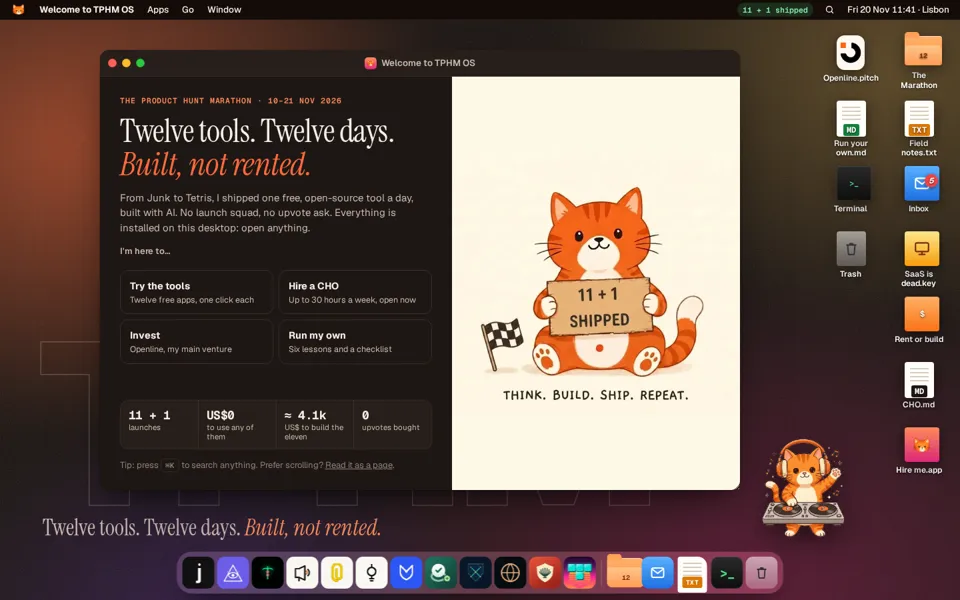
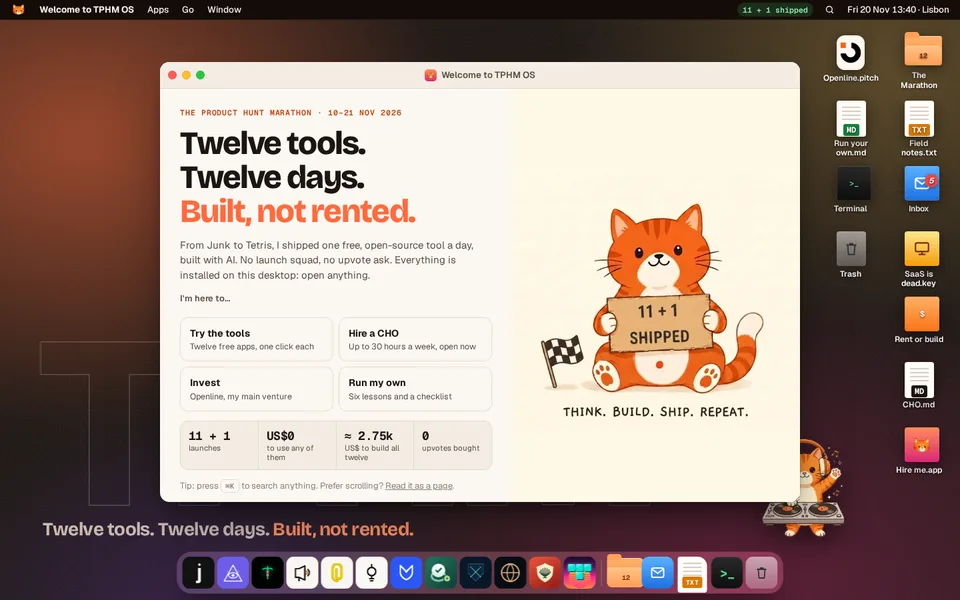
New per-tool budgets, Tetris priced, twelve-tool total US$2,750 everywhere

diff --git a/os/os.js b/os/os.js
@@ -225,7 +225,7 @@ def('welcome', { title: 'Welcome to TPHM OS', w: 960, h: 660, build(b) {
       <button class="pathb" data-open="pitch"><b>Invest</b><span>Openline, my main venture</span></button>
       <button class="pathb" data-open="builders"><b>Run my own</b><span>Six lessons and a checklist</span></button>
     </div>
-    <div class="stats"><div><b>11 + 1</b><span>launches</span></div><div><b>US$0</b><span>to use any of them</span></div><div><b>≈ 4.1k</b><span>US$ to build the eleven</span></div><div><b>0</b><span>upvotes bought</span></div></div>
+    <div class="stats"><div><b>11 + 1</b><span>launches</span></div><div><b>US$0</b><span>to use any of them</span></div><div><b>≈ 2.75k</b><span>US$ to build all twelve</span></div><div><b>0</b><span>upvotes bought</span></div></div>
     <p class="small">Tip: press <kbd style="margin:0">⌘K</kbd> to search anything. Prefer scrolling? <a href="/">Read it as a page</a>.</p>
   </div><div class="wel-r"><img src="/assets/kitty/fin.webp" alt="The Marathon kitty holding a sign: 11 + 1 shipped" width="1100" height="614"></div></div>`;
 } });
@@ -243,7 +243,7 @@ def('finder', { title: 'The Marathon', w: 860, h: 540, build(b) {
     <div class="fd-bar"><b id="fdT">All twelve</b><div class="seg" role="group" aria-label="View"><button aria-pressed="true" data-v="grid">Icons</button><button aria-pressed="false" data-v="list">List</button></div></div>
     <div class="fd-grid">${LOG.map(p => `<button class="fi" data-open="p:${p.key}" data-tags="${TAGS[p.key]}"><img src="/assets/icons/${p.key}.webp" alt=""><b>${p.name}</b><span>${p.encore ? 'Encore' : 'Day ' + p.n} · ${p.day.slice(4)}</span></button>`).join('')}</div>
     <div class="fd-list" hidden><table><thead><tr><th>Name</th><th>Kind</th><th>Shipped</th><th class="num">What it took</th></tr></thead><tbody>${LOG.map(p => `<tr tabindex="0" data-open="p:${p.key}" data-tags="${TAGS[p.key]}"><td><img src="/assets/icons/${p.key}.webp" alt="">${p.name}</td><td>${p.kind}</td><td>${p.day}</td><td class="num">${p.budget ? '≈ ' + money(p.budget) : 'bonus'}</td></tr>`).join('')}</tbody></table></div>
-    <div class="fd-status"><span id="fdN">12 items</span><span>All MIT · free for good · ≈ ${money(TOTAL)} for the eleven</span></div>
+    <div class="fd-status"><span id="fdN">12 items</span><span>All MIT · free for good · ≈ ${money(TOTAL)} for all twelve</span></div>
   </div></div>`;
   $$('.fd-side button', b).forEach(btn => btn.addEventListener('click', () => {
     $$('.fd-side button', b).forEach(x => x.setAttribute('aria-pressed', x === btn));
@@ -268,7 +268,7 @@ function productApp(key) {
         <div class="pa-head"><img src="/assets/icons/${key}.webp" alt=""><div><p class="eyb">${p.encore ? 'Bonus · 12 of 11' : 'Day ' + p.n + ' of 11'} · ${p.day}</p><b>${p.name}</b></div></div>
         <p class="pa-line">${p.line}</p>
         <p class="p2">${p.note}</p>
-        <dl class="facts"><div><dt>Kind</dt><dd>${p.kind}</dd></div><div><dt>Stack</dt><dd>${p.stack}</dd></div><div><dt>Licence</dt><dd>MIT, free for good</dd></div><div><dt>What it took</dt><dd>${p.budget ? '≈ ' + money(p.budget) + ' <span class="small">AI tokens, hours and other compute, marketing and hosting across every iteration. Not a price.</span>' : 'A bonus round, not counted in the eleven'}</dd></div></dl>
+        <dl class="facts"><div><dt>Kind</dt><dd>${p.kind}</dd></div><div><dt>Stack</dt><dd>${p.stack}</dd></div><div><dt>Licence</dt><dd>MIT, free for good</dd></div><div><dt>What it took</dt><dd>${p.budget ? '≈ ' + money(p.budget) + ' <span class="small">AI tokens, hours and other compute, marketing and hosting across every iteration. Not a price.</span>' : 'Not tracked'}</dd></div></dl>
         <div class="row-btns">${live ? `<button class="btn btn-or" data-live="${live}">Run it right here</button>` : ''}${p.site ? `<a class="btn ${live ? 'btn-ln' : 'btn-or'}" href="${p.site}" target="_blank" rel="noopener">${host(p.site)} ${EXT}</a>` : ''}${p.ph ? `<a class="btn ${p.site || live ? 'btn-ln' : 'btn-or'}" href="${phU(p)}" target="_blank" rel="noopener">Product Hunt ${EXT}</a>` : ''}<a class="btn btn-ln" href="${ghU(p)}" target="_blank" rel="noopener">GitHub ${EXT}</a></div>
         ${p.encore ? '<p class="small">Tetris is a trademark of The Tetris Company. Grand Theft Auto and GTA VI are trademarks of Take-Two Interactive and Rockstar Games. A fan project, not affiliated with any of them, and it comes down on request, no questions asked.</p>' : ''}
         <div class="pa-nav"><button class="btn btn-ln" data-swap="${prev.key}">← ${prev.name}</button><button class="btn btn-ln" data-swap="${next.key}">${next.name} →</button></div>
@@ -343,7 +343,7 @@ def('saas', { title: 'SaaS is dead.key', w: 960, h: 600, build(b) {
     { t: 'SaaS is dead', c: 'orange', h: `<p class="eyb">A provocation, not an obituary</p><h2 class="big">SaaS is dead. Rent by default? <em style="color:#FFE7B0">Not anymore.</em></h2><p>My bet is that more companies will build and own the workflows they used to rent.</p>` },
     { t: 'For companies', c: 'light', h: `<p class="eyb">For companies</p><h2 class="big">Own the workflow. Question the recurring bill.</h2><p>Swapping SaaS seats for an uncontrolled AI bill isn't sovereignty. Use AI to create reusable tools, turn repeated prompts into owned apps, use ordinary code for predictable steps, and test small self-hosted models for narrow jobs.</p><p>Compare cost per successful result, including hardware, power, hosting, licences, security, maintenance and human time. Self-hosting is not automatically cheaper or more private.</p>` },
     { t: 'For founders and investors', h: `<p class="eyb">For SaaS founders and investors</p><h2 class="big">Reproducible features are no longer a moat.</h2><p>My deliberately aggressive belief: AI can already reproduce the software functionality of a SaaS company's entire product line, for less than one month of its revenue. Soon that budget could fall to one customer's annual bill, then their monthly bill.</p><p>If I'm right, SaaS economics built only on reproducible features could be reduced to dust. This is my prediction, not a benchmark. Recreating software is not rebuilding proprietary data, infrastructure, compliance or customer trust.</p>` },
-    { t: 'The evidence', h: `<p class="eyb">The evidence on this desktop</p><h2 class="big" style="font-size:clamp(26px,2.8vw,40px)">Twelve simple tools, built, not rented, at a residual cost.</h2><p>A scratchpad, a domain monitor, a terminal assistant, an encrypted inbox, a contract reviewer, a research panel, a VPN, a credit monitor, a firewall template, a clock, a malware scanner and a game. Each one replaces or sidesteps something people usually pay for every month.</p><ol class="bars">${B.map(p => `<li><img src="/assets/icons/${p.key}.webp" alt=""><span>${p.name}</span><i style="--v:${p.budget / B[0].budget * 100}"></i><em>${p.budget}</em></li>`).join('')}<li style="border-top:1px solid rgba(255,255,255,.15);padding-top:6px"><span></span><span>The eleven, in US$</span><span></span><em>≈ ${TOTAL.toLocaleString('en-US')}</em></li></ol><p style="font-size:13px">Each prototype took roughly US$100 to US$800 of AI and time: AI tokens, hours and other compute, marketing or hosting across every iteration. An approximation, not a price or an invoice. Most run for a few dollars a month of hosting, or for free on your own machine. Tetris not included.</p>` },
+    { t: 'The evidence', h: `<p class="eyb">The evidence on this desktop</p><h2 class="big" style="font-size:clamp(26px,2.8vw,40px)">Twelve simple tools, built, not rented, at a residual cost.</h2><p>A scratchpad, a domain monitor, a terminal assistant, an encrypted inbox, a contract reviewer, a research panel, a VPN, a credit monitor, a firewall template, a clock, a malware scanner and a game. Each one replaces or sidesteps something people usually pay for every month.</p><ol class="bars">${B.map(p => `<li><img src="/assets/icons/${p.key}.webp" alt=""><span>${p.name}</span><i style="--v:${p.budget / B[0].budget * 100}"></i><em>${p.budget}</em></li>`).join('')}<li style="border-top:1px solid rgba(255,255,255,.15);padding-top:6px"><span></span><span>All twelve, in US$</span><span></span><em>≈ ${TOTAL.toLocaleString('en-US')}</em></li></ol><p style="font-size:13px">Each prototype took roughly US$50 to US$400 of AI and time: AI tokens, hours and other compute, marketing or hosting across every iteration. An approximation, not a price or an invoice. Most run for a few dollars a month of hosting, or for free on your own machine.</p>` },
     { t: 'Four principles', h: `<p class="eyb">How to decide</p><h2 class="big">Build where it matters. Rent where it's worth it.</h2><ul class="principles"><li><b>Build where ownership is an advantage.</b>Internal tools, repeated workflows, anything your team touches every day.</li><li><b>Keep paying where it's worth it.</b>When a supplier delivers value you can't sensibly reproduce: data, networks, regulated services.</li><li><b>Budget the whole life, not the prototype.</b>Iteration, AI usage, maintenance, security and expertise all count.</li><li><b>Software on demand, responsibility included.</b>Every tool needs an owner, tests and a way back.</li></ul>` },
     { t: 'Your turn', c: 'orange', h: `<p class="eyb">Your turn</p><h2 class="big">Do the maths on your own stack.</h2><p>A rough sketch of three years of renting against building and running your own.</p><div class="row-btns"><button class="btn btn-ln" style="background:#fff;border:0;color:#1a0b05" data-open="calc">Open Rent or build</button><button class="btn btn-ln" style="background:transparent;color:#fff;border-color:rgba(255,255,255,.5)" data-open="hire">Hire a CHO to do it</button></div>` }
   ]);
@@ -446,8 +446,8 @@ def('terminal', { title: 'paul@tphm: ~', w: 720, h: 460, cls: 'dark-win', build(
   const CMDS = {
     help: () => say(`<span class="y">Commands</span>\n  <span class="a">ls</span>             list the twelve apps\n  <span class="a">open</span> &lt;name&gt;    open an app (try: open mars)\n  <span class="a">neofetch</span>       system info\n  <span class="a">budget</span>         what it took, tool by tool\n  <span class="a">whoami</span>         who built this\n  <span class="a">cat</span> cho.md     what is a CHO\n  <span class="a">hire</span> · <span class="a">invest</span> · <span class="a">notes</span> · <span class="a">inbox</span> · <span class="a">saas</span>\n  <span class="a">sudo upvote</span>    try it\n  <span class="a">clear</span>          clear the screen`),
     ls: () => say(LOG.map(p => `<span class="d">${String(p.n).padStart(2, '0')}</span>  <span class="a">${p.key.padEnd(18)}</span> ${p.kind}`).join('\n')),
-    neofetch: () => say(`<span class="a">   /\\_/\\ </span>   <span class="y">paul</span>@<span class="y">tphm</span>\n<span class="a">  ( o.o )</span>   OS: TPHM OS 12.0 (Lisbon)\n<span class="a">   > ^ <</span>    Apps: 11 + 1, all MIT\n            Built: 10–21 Nov 2026\n            Cost: ≈ ${money(TOTAL)} for the eleven\n            Upvotes bought: 0\n            Shell: feedback over votes`),
-    budget: () => say(B.map(p => `${p.name.padEnd(18)} <span class="a">${'█'.repeat(Math.round(p.budget / 40))}</span> ${p.budget}`).join('\n') + `\n${'The eleven'.padEnd(18)} ≈ ${TOTAL.toLocaleString('en-US')} US$\n<span class="d">AI tokens, hours, compute, marketing and hosting. Not a price.</span>`),
+    neofetch: () => say(`<span class="a">   /\\_/\\ </span>   <span class="y">paul</span>@<span class="y">tphm</span>\n<span class="a">  ( o.o )</span>   OS: TPHM OS 12.0 (Lisbon)\n<span class="a">   > ^ <</span>    Apps: 11 + 1, all MIT\n            Built: 10–21 Nov 2026\n            Cost: ≈ ${money(TOTAL)} for all twelve\n            Upvotes bought: 0\n            Shell: feedback over votes`),
+    budget: () => say(B.map(p => `${p.name.padEnd(18)} <span class="a">${'█'.repeat(Math.round(p.budget / 25))}</span> ${p.budget}`).join('\n') + `\n${'All twelve'.padEnd(18)} ≈ ${TOTAL.toLocaleString('en-US')} US$\n<span class="d">AI tokens, hours, compute, marketing and hosting. Not a price.</span>`),
     whoami: () => say('Paul Fleury. Founder. CEO. Chief Hacking Officer. Lisbon.\nMain venture: <a href="https://openline.com" target="_blank" rel="noopener">Openline</a>. Contact: <a href="' + CONTACT + '" target="_blank" rel="noopener">paulfleury.com/contact</a>'),
     hire: () => { say('Opening Hire me.app…'); openApp('hire'); },
     invest: () => { say('Opening Openline.pitch…'); openApp('pitch'); },

diff --git a/index.html b/index.html
@@ -16,8 +16,8 @@
 <link rel="preconnect" href="https://fonts.gstatic.com" crossorigin>
 <link rel="stylesheet" href="https://fonts.googleapis.com/css2?family=Bricolage+Grotesque:opsz,wght@12..96,600..800&family=Figtree:wght@400..800&display=swap">
 <script>(function(){var t;try{t=localStorage.getItem('tphm-theme')}catch(e){}if(!t)t=matchMedia('(prefers-color-scheme:dark)').matches?'dark':'light';document.documentElement.dataset.theme=t;document.documentElement.classList.add('js')})()</script>
-<link rel="stylesheet" href="/ph.css?v=202611201420">
-<link rel="stylesheet" href="/tphm.css?v=202611201420">
+<link rel="stylesheet" href="/ph.css?v=202611201500">
+<link rel="stylesheet" href="/tphm.css?v=202611201500">
 <link rel="stylesheet" href="/assets/a11y/a11y-v2.css">
 </head>
 <body>
@@ -112,7 +112,7 @@
       <div><dt>11 + 1</dt><dd>launches <button class="tip" type="button" data-tip="The eleven announced launches, plus a surprise Tetris encore on day twelve."><svg class="ico"><use href="#i-info"/></svg></button></dd></div>
       <div><dt>12</dt><dd>free tools, MIT</dd></div>
       <div><dt>US$0</dt><dd>to use any of them</dd></div>
-      <div><dt>≈ US$4,100</dt><dd>to build the eleven <button class="tip" type="button" data-tip="AI tokens, hours and other compute, marketing and hosting across every iteration. An approximation, not a price or an invoice. Tetris not included."><svg class="ico"><use href="#i-info"/></svg></button></dd></div>
+      <div><dt>≈ US$2,750</dt><dd>to build all twelve <button class="tip" type="button" data-tip="AI tokens, hours and other compute, marketing and hosting across every iteration. An approximation, not a price or an invoice."><svg class="ico"><use href="#i-info"/></svg></button></dd></div>
       <div><dt>0</dt><dd>upvotes bought or asked</dd></div>
     </dl>
   </div>
@@ -161,7 +161,7 @@
       <a class="ch" href="#/builders"><span class="ch-n">05 · Builders</span><h3>Run your own little marathon.</h3><p>Six lessons and a launch-day checklist.</p>
         <span class="ch-viz ch-dots" aria-hidden="true" id="chDots"><i></i><i></i><i></i><i></i><i></i><i></i><em>0 of 6 ticked</em></span><span class="ch-go">Start the checklist <svg class="ico go flip"><use href="#i-go"/></svg></span></a>
       <a href="/os/" class="ch ch-os" data-os><span class="ch-n"><svg class="ico"><use href="#i-os"/></svg> Bonus · TPHM OS</span><h3>Prefer to play?</h3><p>Open the Marathon as a desktop: apps, inbox, terminal and a DJ kitty.</p>
-        <span class="ch-viz ch-shot" aria-hidden="true"><img src="/assets/brand/os-preview.webp" alt="" width="960" height="600" loading="lazy"></span><span class="ch-go">Boot it <svg class="ico go flip"><use href="#i-go"/></svg></span></a>
+        <span class="ch-viz ch-shot" aria-hidden="true"><img src="/assets/brand/os-preview.webp?v=202611201500" alt="" width="960" height="600" loading="lazy"></span><span class="ch-go">Boot it <svg class="ico go flip"><use href="#i-go"/></svg></span></a>
     </div>
   </div>
 </section>
@@ -246,7 +246,7 @@
     </div>
 
     <div class="took">
-      <div class="took-head"><div><p class="kicker">The evidence</p><h3>What it took, tool by tool</h3></div><p class="muted">Each prototype took roughly US$100 to US$800 of AI and time. Most run for a few dollars a month, or free on your own machine.</p></div>
+      <div class="took-head"><div><p class="kicker">The evidence</p><h3>What it took, tool by tool</h3></div><p class="muted">Each prototype took roughly US$50 to US$400 of AI and time. Most run for a few dollars a month, or free on your own machine.</p></div>
       <ol class="took-bars" id="took"></ol>
     </div>
   </div>
@@ -406,8 +406,8 @@
   <section data-k="terms" data-t="How I'd work with you"><p class="dlg-lead">A playful title, serious consulting.</p><ul class="dlg-tools one"><li><b>Who</b><span>A great company or ambitious startup, a worthwhile product, mutual trust and a modest budget.</span></li><li><b>What</b><span>A consulting CHO role: find your recurring bottlenecks, then design, build and hand over tools your team owns, with code in your repositories.</span></li><li><b>How</b><span>Small, measurable steps. Prototype in days, not quarters. Ordinary code where it's predictable, AI where it earns its place, humans approving what matters.</span></li><li><b>Cost</b><span>Simple tools at a residual cost: a prototype in the low hundreds of dollars of AI, then hosting measured in dollars a month. Full lifetime costs are always estimated with you, upfront.</span></li><li><b>Bring</b><span>A real problem and a mandate. Consulting is separate from Openline's fundraising.</span></li></ul><div class="dlg-note"><h3>Up to 30 hours a week, open now</h3><p>These twelve tools are my proof of work.</p><a class="btn btn-primary" href="https://paulfleury.com/contact" target="_blank" rel="noopener">Let's build together</a></div></section>
 </template>
 
-<script src="/assets/data.js?v=202611201420"></script>
-<script src="/app.js?v=202611201420" defer></script>
+<script src="/assets/data.js?v=202611201500"></script>
+<script src="/app.js?v=202611201500" defer></script>
 <script type="module" src="/assets/a11y/a11y-v3.js"></script>
 <script type="module" src="/assets/a11y/song.js"></script>
 </body>

diff --git a/assets/data.js b/assets/data.js
@@ -8,7 +8,7 @@ window.TPHM_LOG = [
   { n: 2,  day: 'Wed 11 Nov', name: 'ASE', key: 'ase', kind: 'Domain monitoring',
     line: 'Uptime, DNS and SSL checks for the domains you manage, in a single PHP file.',
     note: 'Readable monitoring you host yourself. Drop it on any shared PHP host.',
-    stack: 'PHP · Web · MIT', budget: 400,
+    stack: 'PHP · Web · MIT', budget: 350,
     site: 'https://ase.so', gh: 'ase', ph: 'ase-2' },
   { n: 3,  day: 'Thu 12 Nov', name: 'Mang', key: 'mang', kind: 'Terminal assistant',
     line: 'Describe what you need. Mang proposes the command. You confirm before anything runs.',
@@ -18,17 +18,17 @@ window.TPHM_LOG = [
   { n: 4,  day: 'Fri 13 Nov', name: 'Hollr', key: 'hollr', kind: 'Encrypted inbox link',
     line: 'Claim a handle, share your link. Messages are encrypted in the sender\u2019s browser.',
     note: 'Launched on the Friday of Web Summit week in Lisbon.',
-    stack: 'Web · PGP · MIT', budget: 700,
+    stack: 'Web · PGP · MIT', budget: 400,
     site: 'https://hollr.to', gh: 'hollr', ph: 'hollr-2' },
   { n: 5,  day: 'Sat 14 Nov', name: 'Clippy', key: 'clippy', kind: 'Contract analysis',
     line: 'Upload a contract, choose your models, compare their readings side by side.',
     note: 'More perspectives, better questions. The findings go to a qualified human, not straight to a signature.',
-    stack: 'Web · OpenRouter · MIT', budget: 600,
+    stack: 'Web · OpenRouter · MIT', budget: 200,
     site: 'https://clippy.legal', gh: 'clippy', ph: 'clippy-11' },
   { n: 6,  day: 'Sun 15 Nov', name: 'Mercury', key: 'mercury', kind: 'Multi-model research',
     line: 'Start with one answer. Escalate to a panel of AI models when the question deserves it.',
-    note: 'The largest build budget of the run: configurable AI evaluation, one answer first, a panel only when it earns its place.',
-    stack: 'Web · Self-hosted · MIT', budget: 800,
+    note: 'Configurable AI evaluation: one answer first, a panel only when it earns its place.',
+    stack: 'Web · Self-hosted · MIT', budget: 300,
     site: 'https://mercury.sh', gh: 'mercury', ph: 'mercury-414' },
   { n: 7,  day: 'Mon 16 Nov', name: 'Megamesh', key: 'megamesh', kind: 'Personal VPN',
     line: 'Your server, your exit. A personal WireGuard VPN on your own VPS, deployed in one click.',
@@ -38,7 +38,7 @@ window.TPHM_LOG = [
   { n: 8,  day: 'Tue 17 Nov', name: 'AI Credit Checker', key: 'ai-credit-checker', kind: 'Mac menu bar app',
     line: 'Your Perplexity, OpenRouter, Fly.io and Runware balances in the menu bar. No API keys.',
     note: 'A tool I needed during the run itself: four AI providers, one glance.',
-    stack: 'macOS · Apple Silicon · Electron · MIT', budget: 200,
+    stack: 'macOS · Apple Silicon · Electron · MIT', budget: 150,
     site: '', gh: 'ai-credit-checker', ph: 'ai-credit-checker' },
   { n: 9,  day: 'Wed 18 Nov', name: 'xnftables', key: 'xnftables', kind: 'Firewall template',
     line: 'A deny-by-default nftables policy for Linux. Document every exception, keep a way back.',
@@ -48,16 +48,16 @@ window.TPHM_LOG = [
   { n: 10, day: 'Thu 19 Nov', name: 'Timescreen', key: 'timescreen', kind: 'Clock for a spare screen',
     line: 'A native Mac app and web clock: 28 styles, 60 palettes and a living Earth in real sunlight.',
     note: 'It began with my three-screen desk and one screen doing nothing.',
-    stack: 'Web · macOS · Swift · MIT', budget: 100,
+    stack: 'Web · macOS · Swift · MIT', budget: 50,
     site: 'https://time.paulfleury.com', gh: 'timescreen', ph: 'timescreen' },
   { n: 11, day: 'Fri 20 Nov', name: 'Mars', key: 'mars', kind: 'Mac malware scanner',
     line: 'A calm, native Mac companion for ClamAV and optional YARA-X. On-demand scans that never delete your files.',
     note: 'The finale of the eleven: two local engines, no cloud upload.',
-    stack: 'macOS 13+ · SwiftUI · ClamAV · MIT', budget: 100,
+    stack: 'macOS 13+ · SwiftUI · ClamAV · MIT', budget: 50,
     site: '', gh: 'mars', ph: 'mars-2031' },
   { n: 12, day: 'Sat 21 Nov', name: 'Tetris', key: 'tetris', kind: 'Encore \u00b7 12 of 11', encore: true,
     line: 'Drop. Line. Repeat. A free Tetris in pure HTML and JS: offline, four themes, PGP-signed scores.',
     note: 'A surprise bonus round to end on fun, released during GTA VI week. Vice is the default theme. A fan project.',
-    stack: 'HTML · JS · PWA · zero dependencies · MIT', budget: null,
+    stack: 'HTML · JS · PWA · zero dependencies · MIT', budget: 50,
     site: 'https://tetris.rocks', gh: 'tetris', ph: '' }
 ];

diff --git a/app.js b/app.js
@@ -166,7 +166,7 @@ const fill = i => {
   $('#p-line').textContent = p.line;
   $('#p-note').textContent = p.note;
   $('#p-stack').textContent = p.stack;
-  $('#p-budget').textContent = p.budget ? '≈ ' + money(p.budget) : 'A bonus round, not counted in the eleven';
+  $('#p-budget').textContent = p.budget ? '≈ ' + money(p.budget) : 'Not tracked';
   $('#p-links').innerHTML = (p.site ? `<a class="btn btn-primary" href="${p.site}" target="_blank" rel="noopener">${p.encore ? 'Play' : 'Try'} ${host(p.site)} ${ico('ext')}</a>` : '') +
     (p.ph ? `<a class="btn ${p.site ? 'btn-ghost' : 'btn-primary'}" href="${ph(p)}" target="_blank" rel="noopener">${ico('ph')} Product Hunt</a>` : '') +
     `<a class="btn btn-ghost" href="${gh(p)}" target="_blank" rel="noopener">${ico('gh')} GitHub</a>`;
@@ -296,7 +296,7 @@ ids.forEach(k => document.getElementById(k).addEventListener('input', calc)); ca
 /* What it took */
 const B = LOG.filter(p => p.budget).sort((a, b) => b.budget - a.budget), MX = B[0].budget, TOT = B.reduce((s, p) => s + p.budget, 0);
 $('#took').innerHTML = B.map(p => `<li><img src="/assets/icons/${p.key}.webp" alt="" width="28" height="28" loading="lazy"><button type="button" data-open="${p.key}">${p.name}</button><span class="tb"><i style="--v:${p.budget / MX * 100}"></i></span><span>${p.budget}</span></li>`).join('') +
-  `<li class="took-total"><span></span><span>The eleven, in total</span><span></span><span>≈ ${TOT.toLocaleString('en-US')}</span></li>`;
+  `<li class="took-total"><span></span><span>All twelve, in total</span><span></span><span>≈ ${TOT.toLocaleString('en-US')}</span></li>`;
 new IntersectionObserver((es, o) => es.forEach(e => { if (e.isIntersecting) { e.target.classList.add('in'); o.unobserve(e.target); } }), { threshold: .3 }).observe($('.took'));
 const sig = $('.sig'); new IntersectionObserver((es, o) => es.forEach(e => { if (e.isIntersecting) { sig.classList.add('in'); o.disconnect(); } }), { threshold: .3 }).observe(sig);
 

diff --git a/os/index.html b/os/index.html
@@ -16,7 +16,7 @@
 <link rel="preconnect" href="https://fonts.gstatic.com" crossorigin>
 <link rel="stylesheet" href="https://fonts.googleapis.com/css2?family=Geist:wght@400..800&family=Geist+Mono:wght@400..700&family=Bricolage+Grotesque:opsz,wght@12..96,600..800&display=swap">
 <script>(function(){var t;try{t=localStorage.getItem('tphmos-theme')}catch(e){}if(!t)t=matchMedia('(prefers-color-scheme:dark)').matches?'dark':'light';document.documentElement.dataset.theme=t})()</script>
-<link rel="stylesheet" href="/os/os.css?v=202611201420">
+<link rel="stylesheet" href="/os/os.css?v=202611201500">
 </head>
 <body>
 <a class="skip" href="/">Skip the desktop and read it as a page</a>
@@ -103,7 +103,7 @@
   </div>
 </dialog>
 
-<script src="/assets/data.js?v=202611201420"></script>
-<script src="/os/os.js?v=202611201420" defer></script>
+<script src="/assets/data.js?v=202611201500"></script>
+<script src="/os/os.js?v=202611201500" defer></script>
 </body>
 </html>
